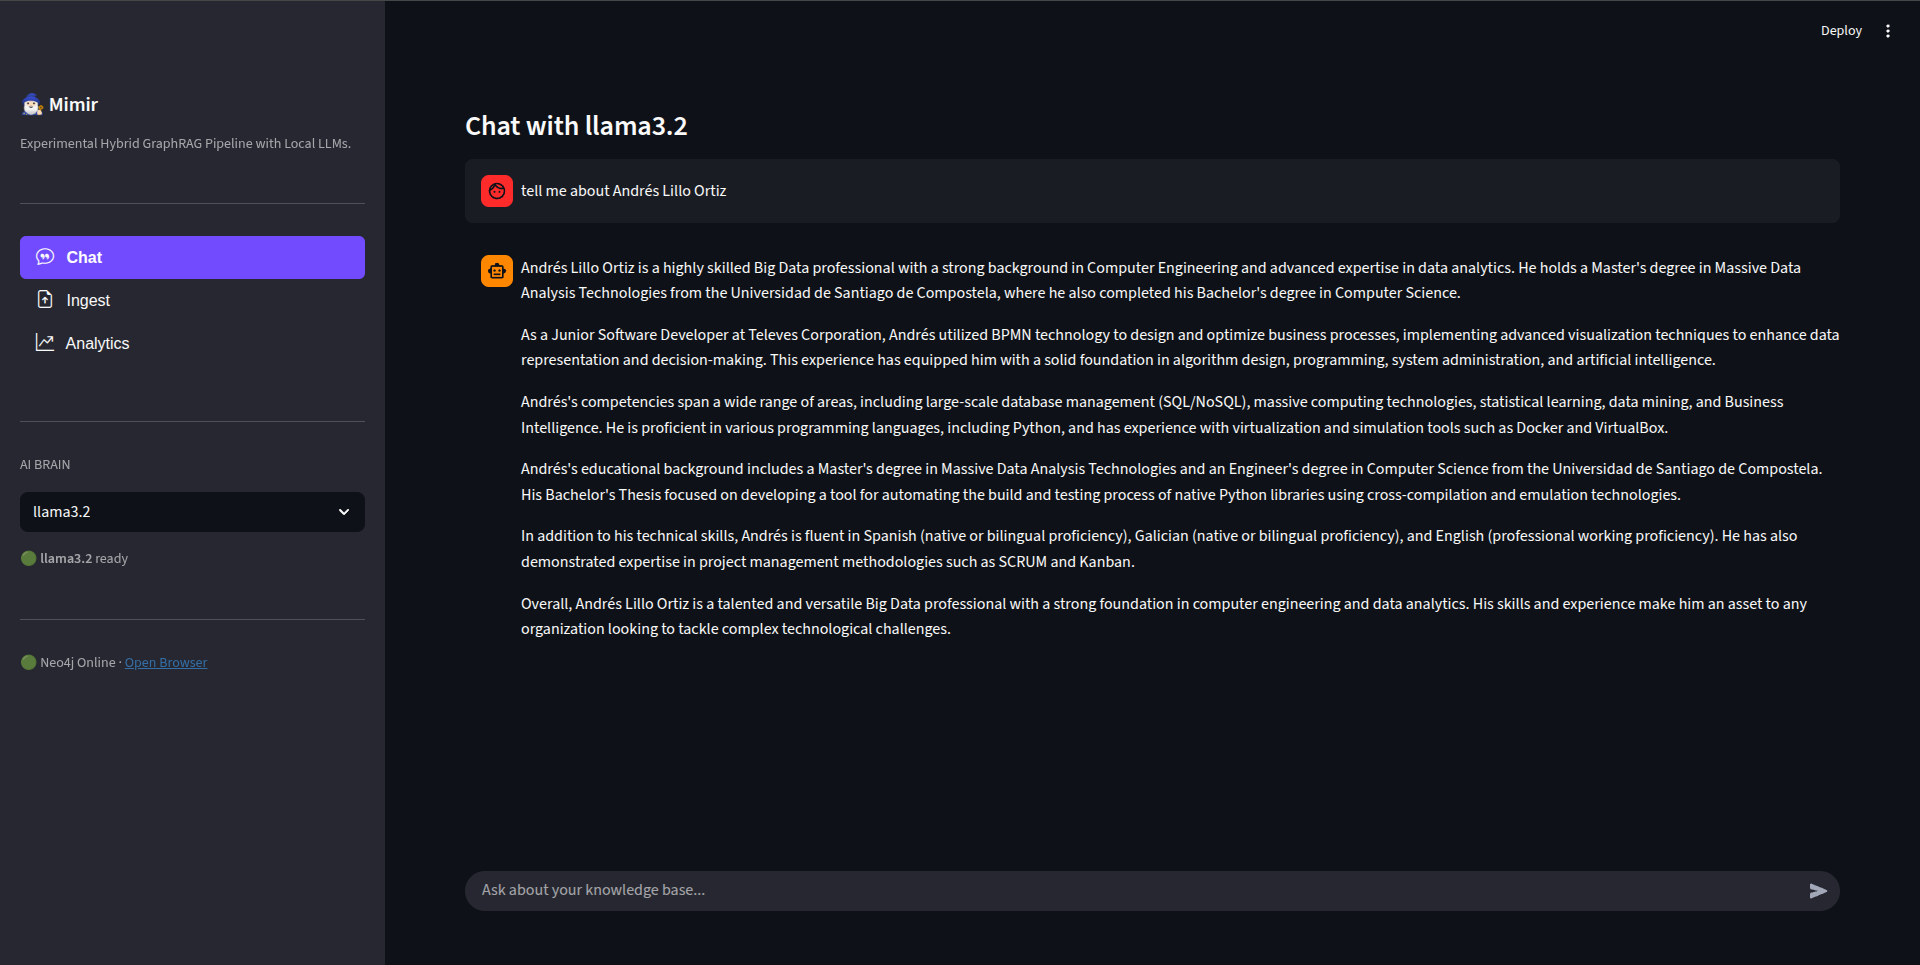
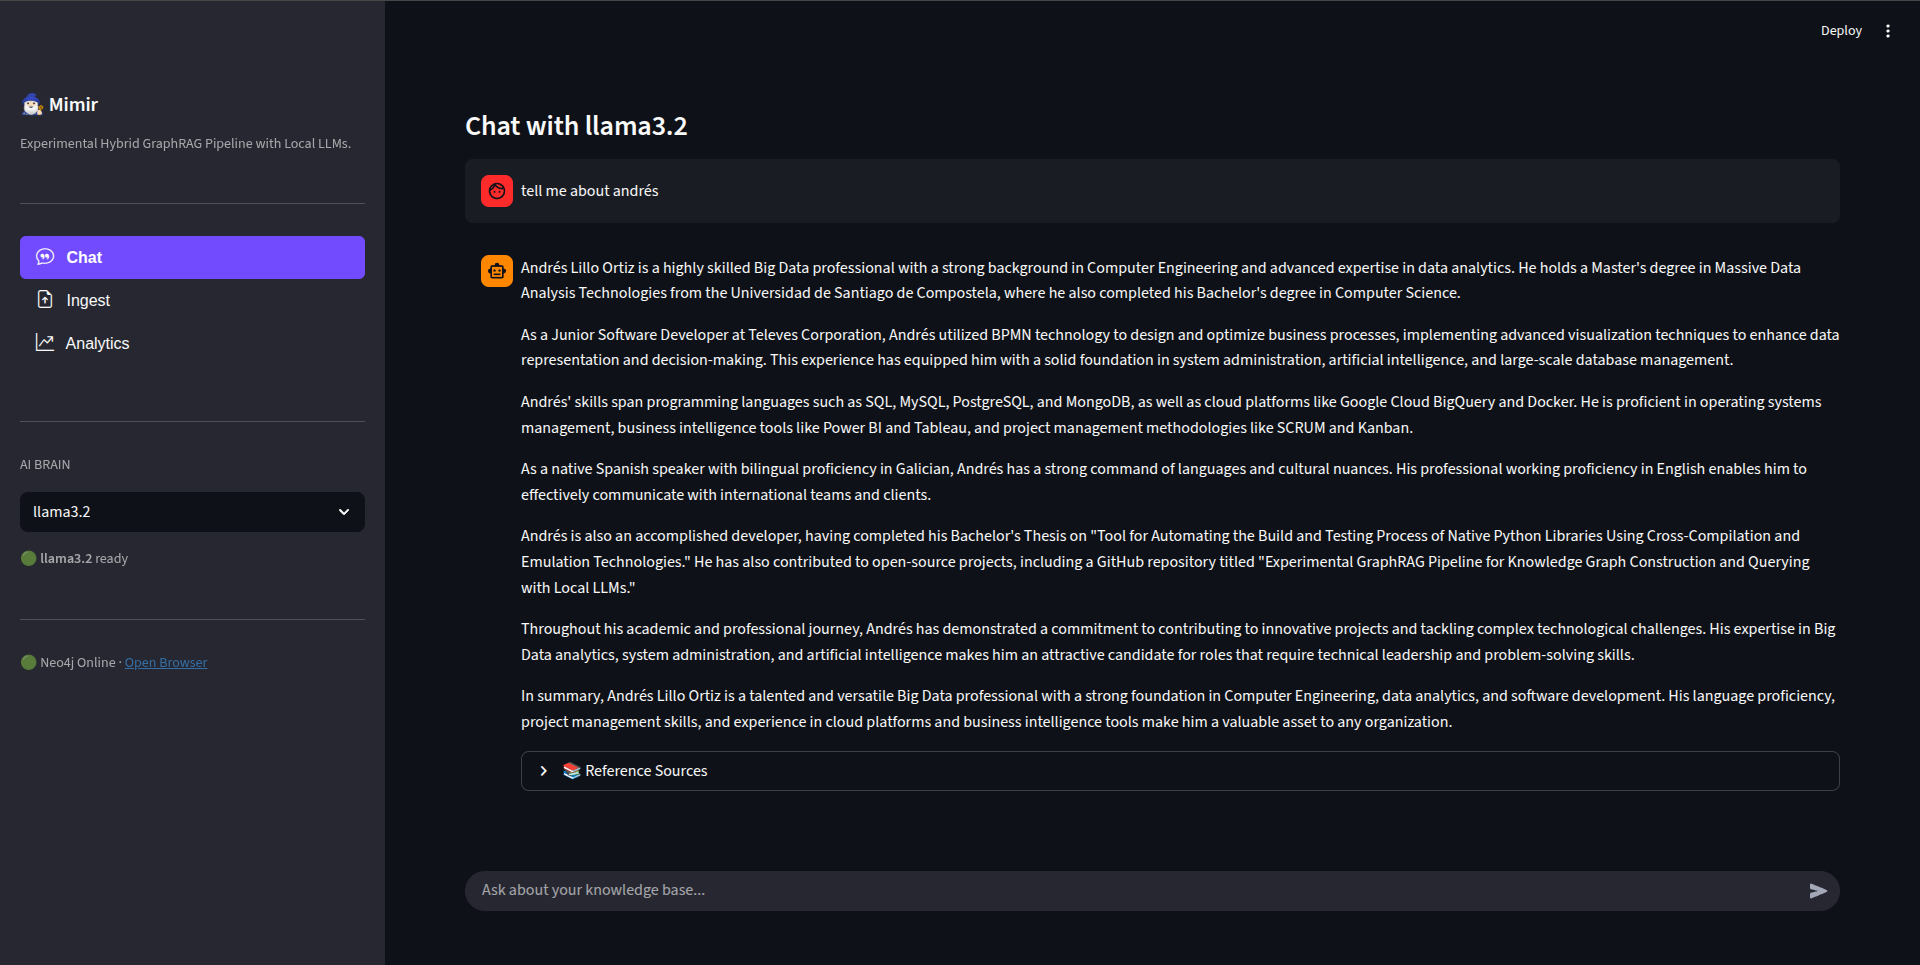
referene sources

Changed region(s): [[0.25, 0.342, 0.9688, 0.6839], [0.2812, 0.715, 0.9688, 0.8083], [0.3125, 0.1865, 0.375, 0.2176]]

diff --git a/mimir.py b/mimir.py
@@ -106,10 +106,32 @@ def main():
 
                         # Initialize Hybrid RAG
                         rag = rag_engine.get_qa_chain(graph, model_name=selected_model)
-                        response = rag.query(prompt)
+                        response_data = rag.query(prompt)
 
-                        placeholder.markdown(response)
-                        st.session_state.messages.append({"role": "assistant", "content": response})
+                        answer_text = response_data["answer"]
+                        sources = response_data["sources"]
+
+                        # 1. Render the main answer
+                        placeholder.markdown(answer_text)
+
+                        # 2. Render sources
+                        if sources:
+                            with st.expander("📚 Reference Sources"):
+                                for i, doc in enumerate(sources):
+                                    # Clean up filename
+                                    source_name = os.path.basename(doc.get('source', 'Unknown'))
+                                    page = doc.get('page', 'N/A')
+                                    # Preview content (first 250 chars)
+                                    content_preview = doc.get('content', '')[:250].replace('\n', ' ')
+
+                                    st.markdown(f"**{i+1}. {source_name}** (Page {page})")
+                                    st.caption(f"_{content_preview}..._")
+                                    if i < len(sources) - 1:
+                                        st.divider()
+
+                        # 3. Save only text to history to keep context clean
+                        st.session_state.messages.append({"role": "assistant", "content": answer_text})
+
                     except Exception as e:
                         placeholder.error(f"Error: {e}")
 
@@ -148,7 +170,12 @@ def main():
 
                     # Step 3
                     st.write(f"🧠 Extracting Graph & Vectors using {selected_model}...")
-                    stats = ingestor.process_file(tmp_path, graph, model_name=selected_model)
+                    stats = ingestor.process_file(
+                        tmp_path,
+                        graph,
+                        model_name=selected_model,
+                        original_filename=uploaded_file.name
+                    )
 
                     os.remove(tmp_path)
 

diff --git a/modules/rag_engine.py b/modules/rag_engine.py
@@ -99,12 +99,22 @@ class HybridRAG:
         )
 
     def query(self, user_question):
-        # A. Vector Search
+        # A. Vector Search (Retrieving Sources)
         vector_context = "No vector data found."
+        source_documents = [] # sources list
+
         if self.vector_store:
             try:
                 docs = self.vector_store.similarity_search(user_question, k=3)
                 vector_context = "\n".join([d.page_content for d in docs])
+
+                for d in docs:
+                    source_documents.append({
+                        "content": d.page_content,
+                        "source": d.metadata.get("source", "Unknown"),
+                        "page": d.metadata.get("page", "N/A")
+                    })
+
             except Exception as e:
                 print(f"Vector search warning: {e}")
 
@@ -129,8 +139,10 @@ class HybridRAG:
             "question": user_question
         })
 
-        return response.content
+        return {
+            "answer": response.content,
+            "sources": source_documents
+        }
 
 def get_qa_chain(graph_db, model_name, verbose=True):
-    """Returns the Hybrid RAG engine."""
     return HybridRAG(graph_db, model_name)

diff --git a/modules/ingestor.py b/modules/ingestor.py
@@ -32,7 +32,7 @@ def get_loader(file_path):
     elif ext == ".md": return UnstructuredMarkdownLoader(file_path)
     else: raise ValueError(f"Unsupported file format: {ext}")
 
-def process_file(file_path, graph_db, model_name):
+def process_file(file_path, graph_db, model_name, original_filename=None):
     """
     Ingests data using HYBRID approach:
     1. Knowledge Graph Extraction (LLMGraphTransformer)
@@ -51,6 +51,11 @@ def process_file(file_path, graph_db, model_name):
     # 2. Split Text (Crucial for Vector Search)
     text_splitter = RecursiveCharacterTextSplitter(chunk_size=1000, chunk_overlap=200)
     documents = text_splitter.split_documents(raw_documents)
+
+    # Original filename
+    if original_filename:
+        for doc in documents:
+            doc.metadata["source"] = original_filename
 
     # 3. GRAPH EXTRACTION (Structured)
     # Smaller models are faster for this step

diff --git a/README.md b/README.md
@@ -146,7 +146,7 @@ Select **"Ingest"** in the sidebar to access the document processing pipeline.
 Select **"Chat"** in the sidebar to query your knowledge base.
 * **Ask:** Type natural language queries (e.g., *"What concepts are related to X?"*).
 * **Thinking Process:** The selected model (e.g., Llama 3.2) will analyze the query, generating Cypher queries for the graph and performing vector searches for context.
-* **Result:** The system synthesizes an answer based on the hybrid retrieval.
+* **Result:** The system synthesizes an answer based on the hybrid retrieval and provide reference sources.
 
 ![chat](screenshots/chat.png)
 
